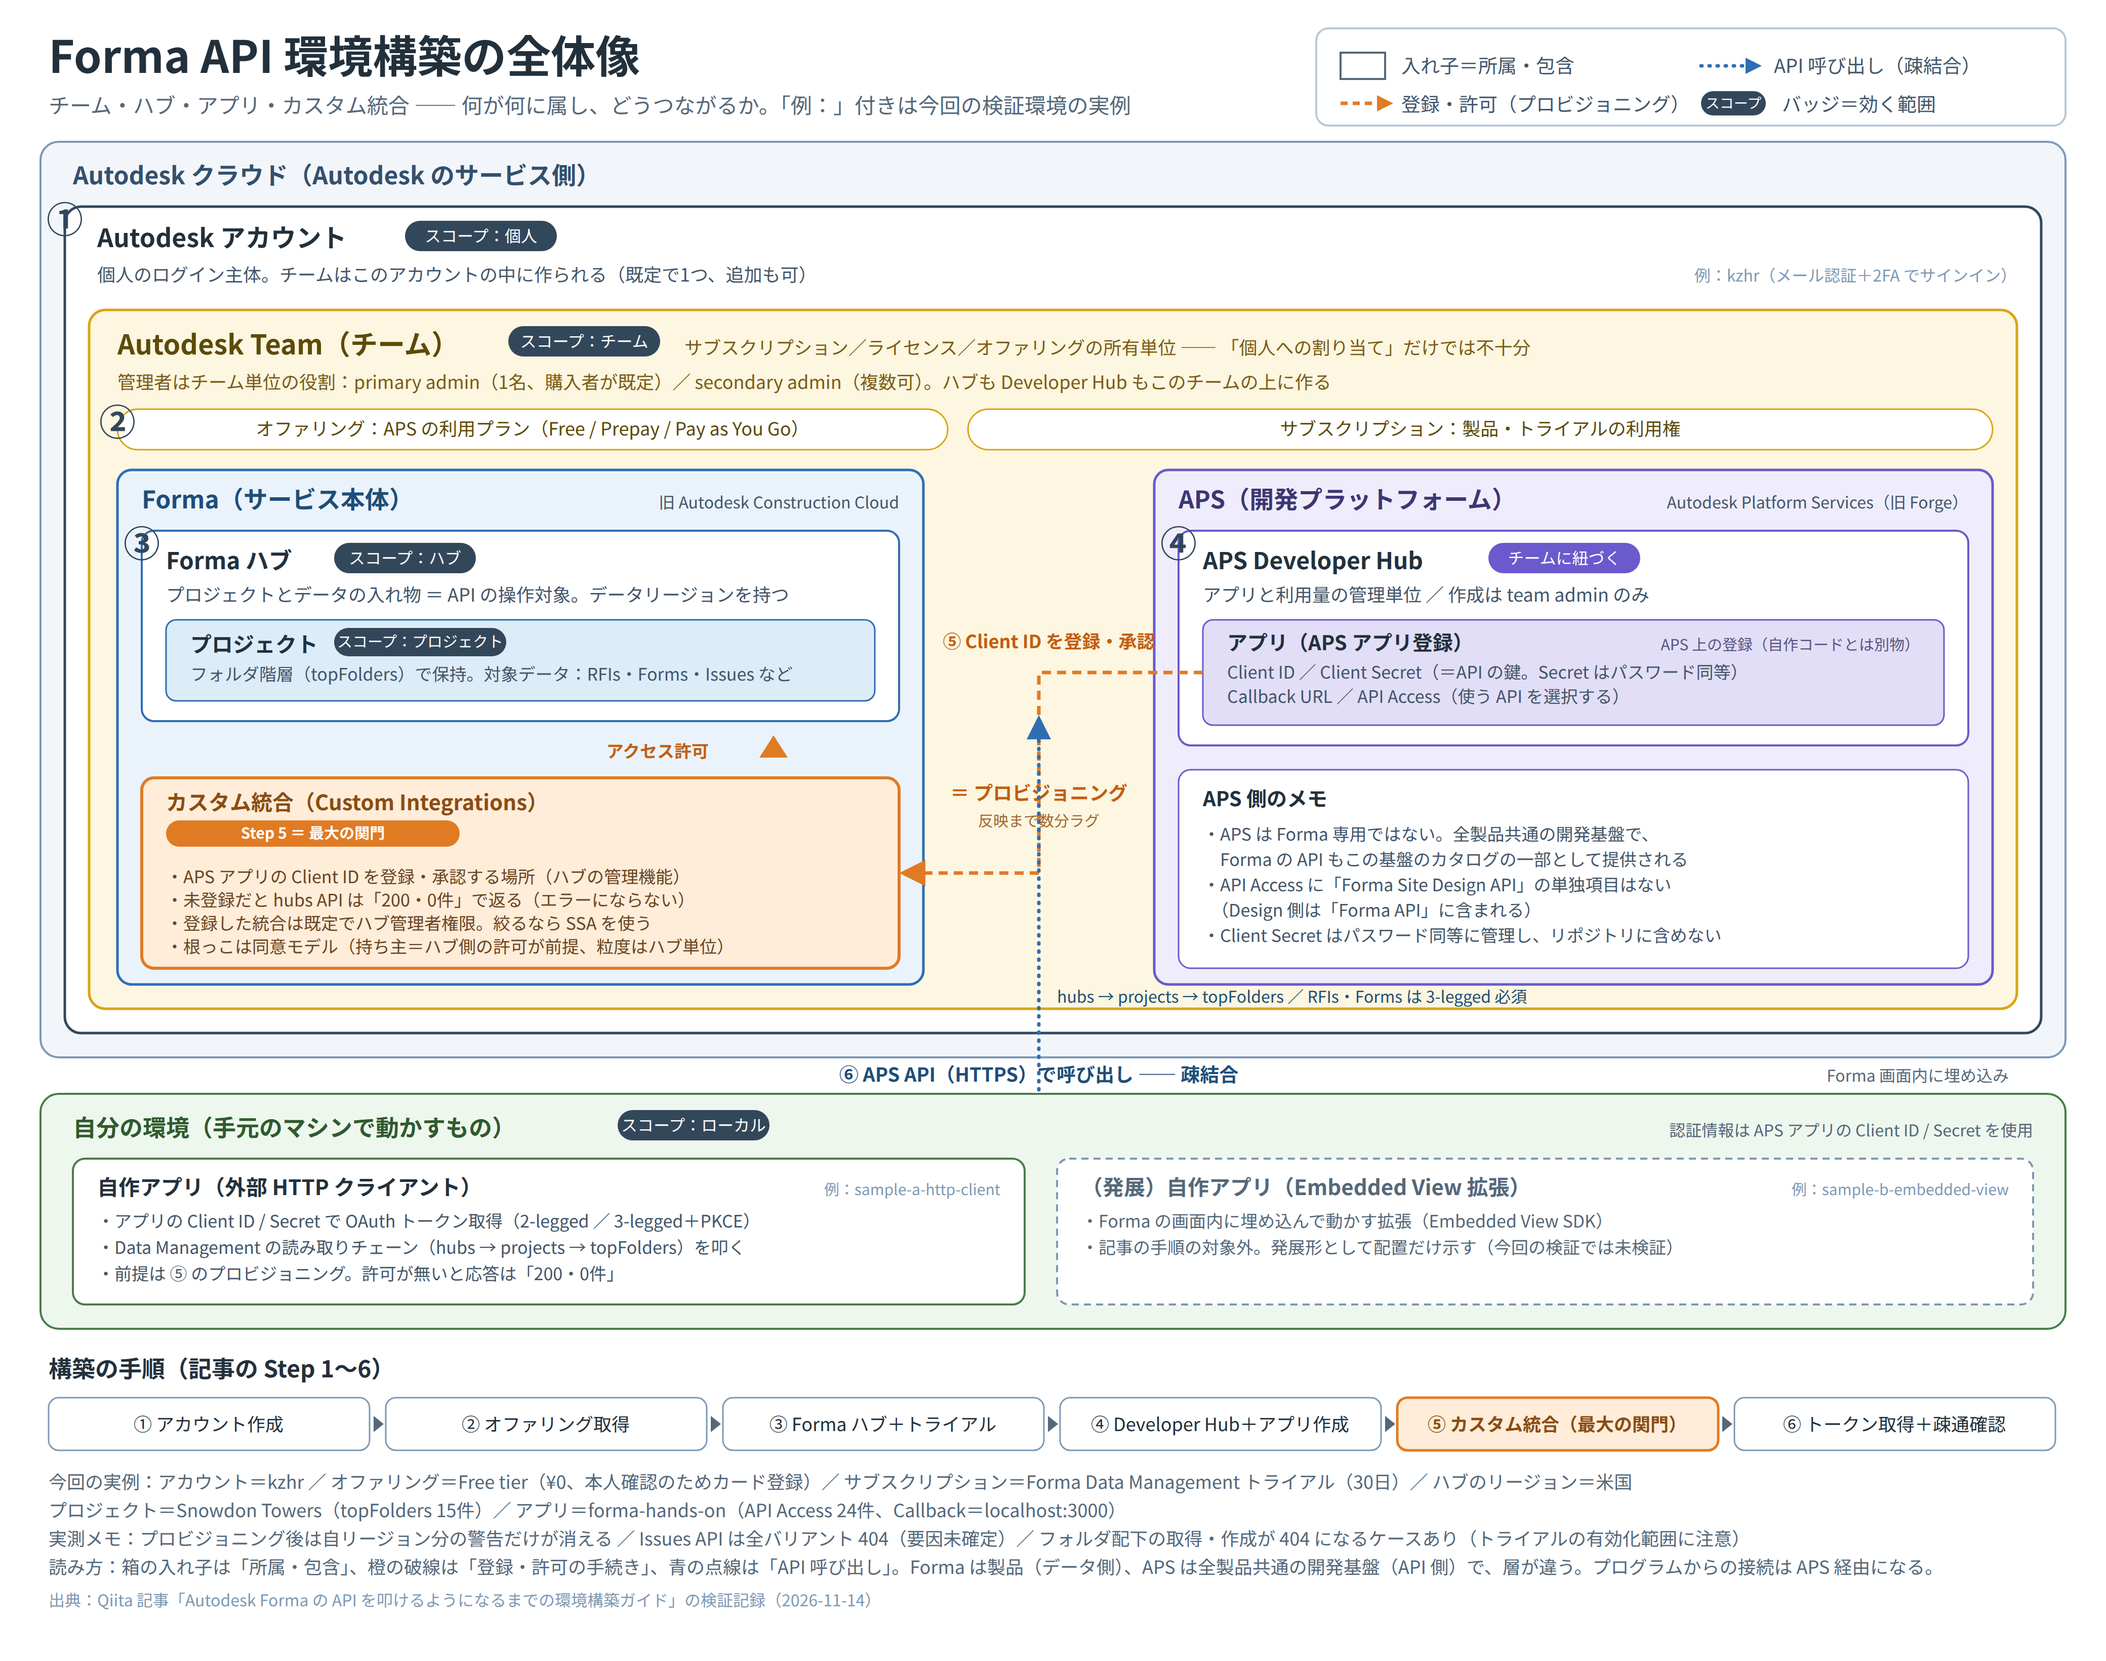
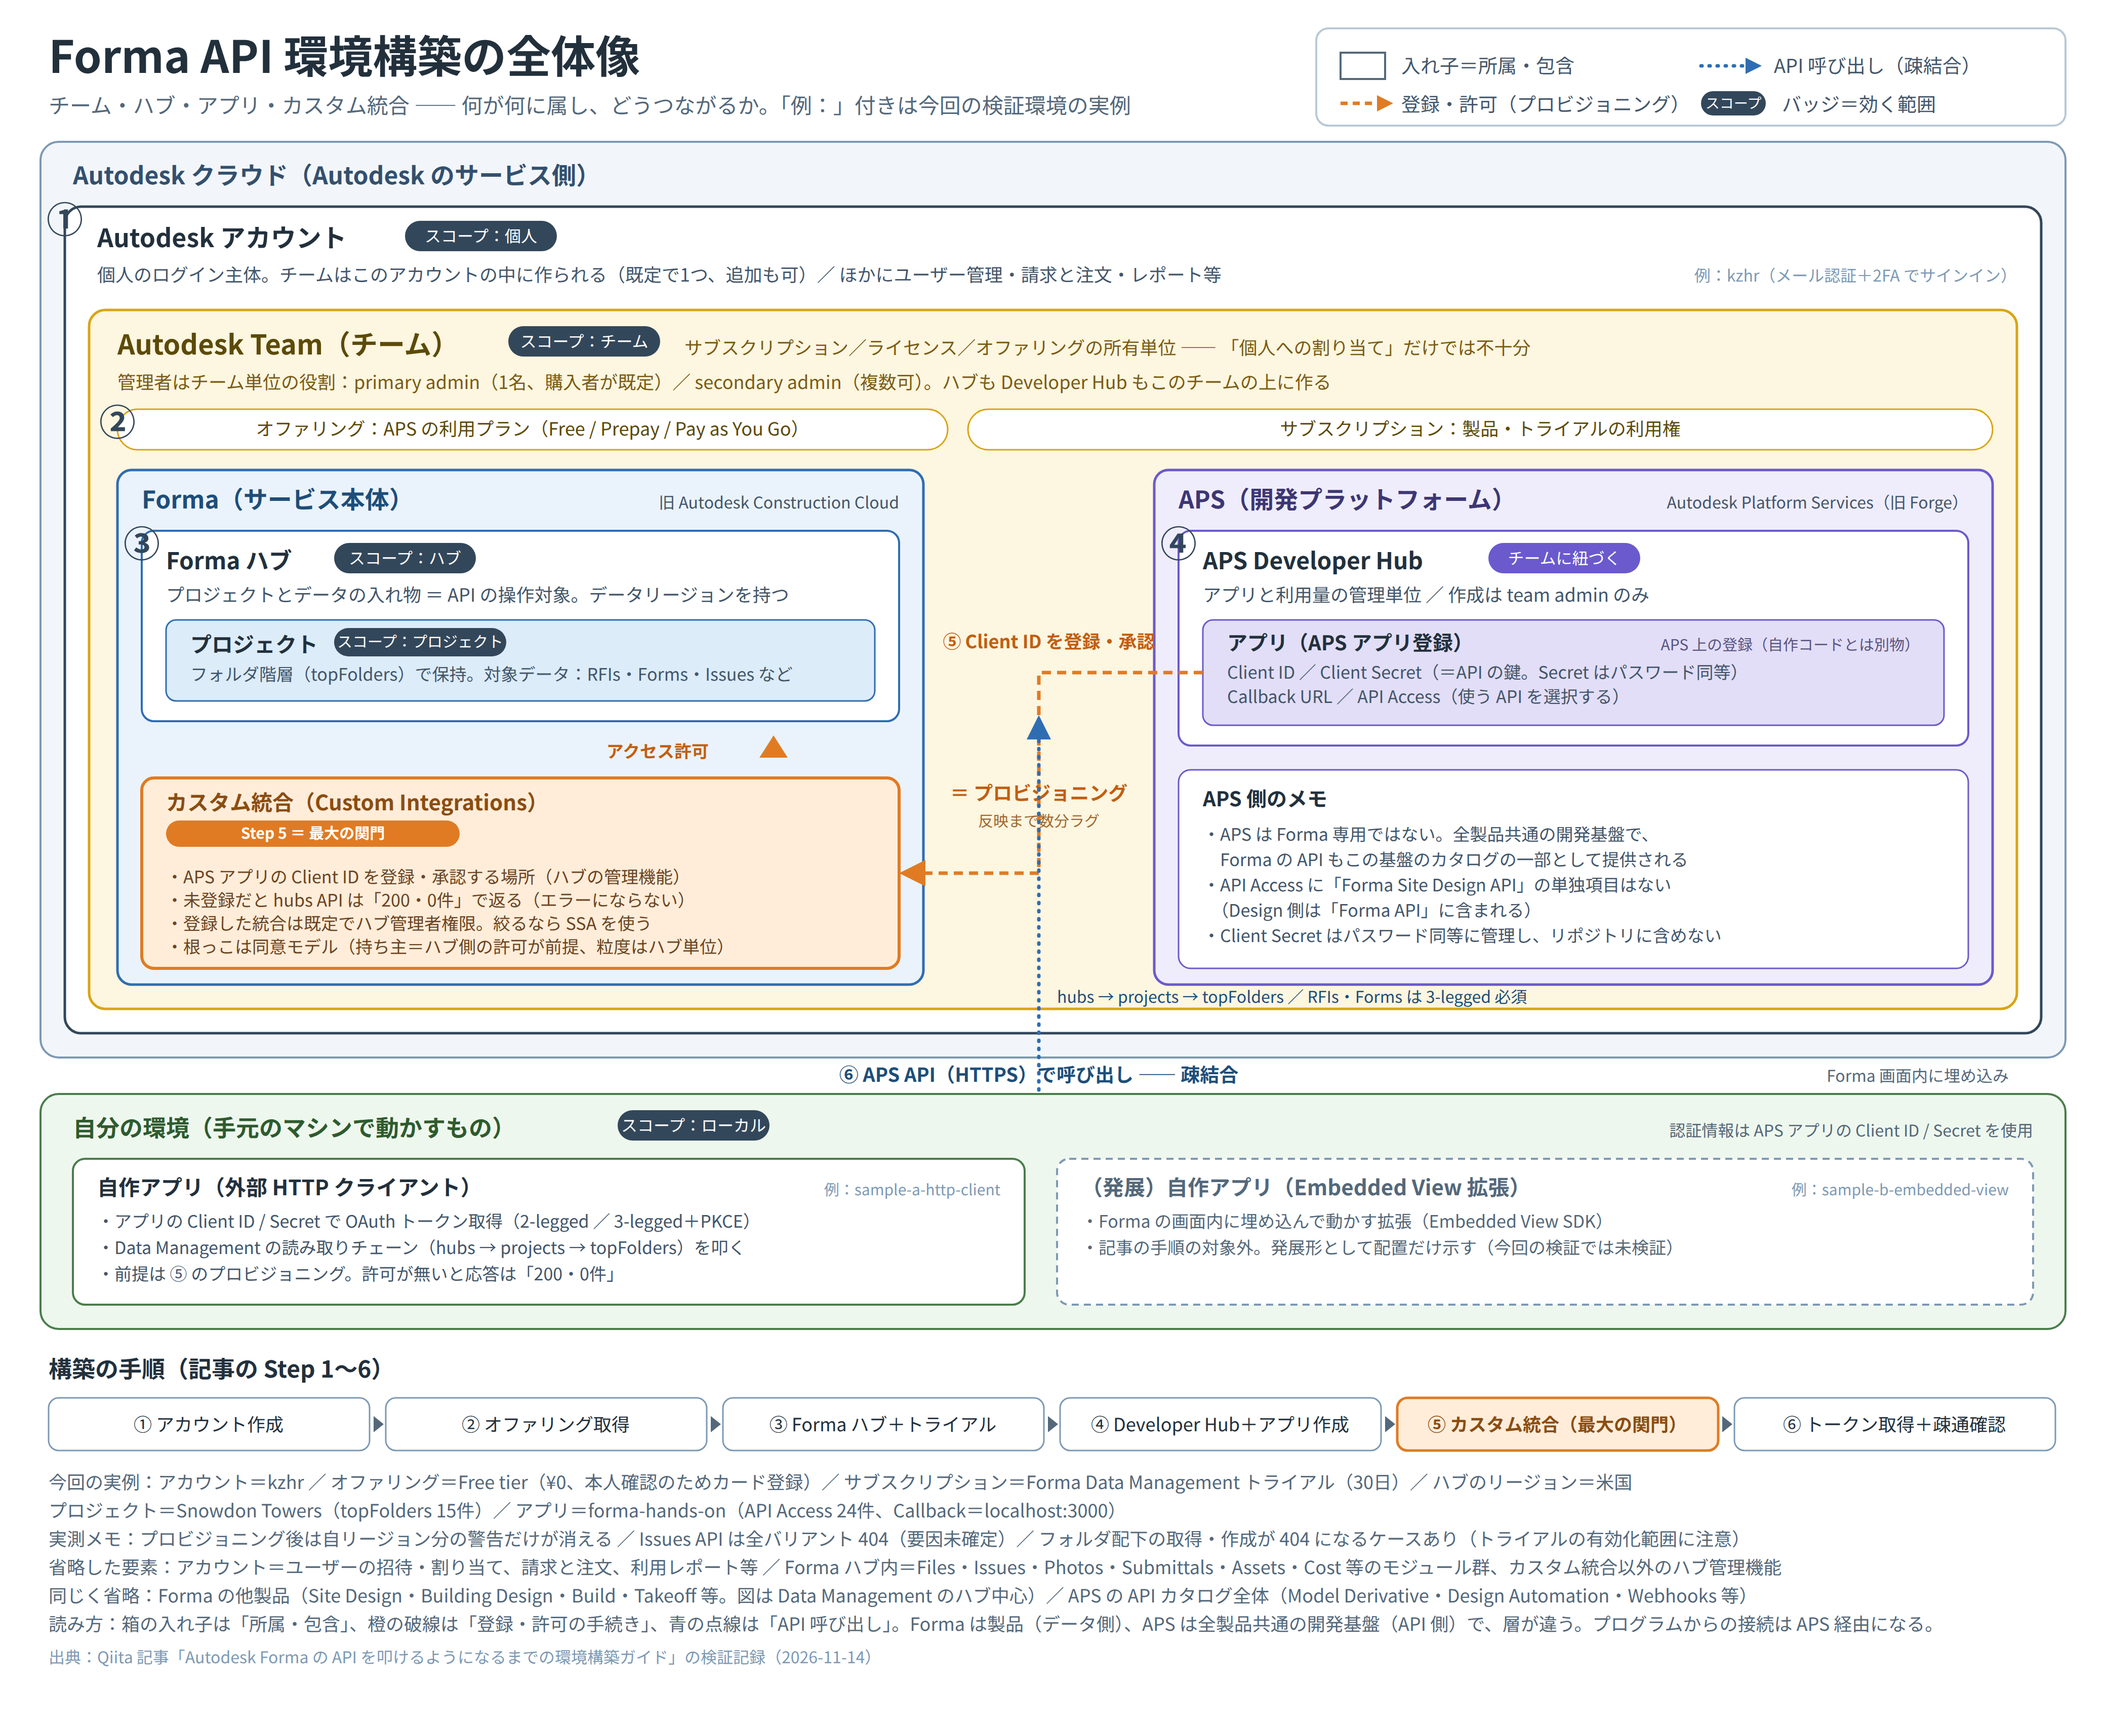
Forma記事: Step 1のつまづき（2FA・hCaptcha）を削除／全体像図解に省略要素の注記を追加

diff --git a/public/forma-api-environment-setup.md b/public/forma-api-environment-setup.md
@@ -80,17 +80,6 @@ Autodesk Forma（旧 Autodesk Construction Cloud / ACC）の API を使って自
 
 ![アカウント作成フォーム](https://raw.githubusercontent.com/tkhashi/qiita/main/assets/forma-api-environment-setup/117_create_account_form.jpg)
 
-### ⚠ つまづきポイント
-
-- **2段階認証のバックアップコードは、その場で必ず控える。** 後から確認する手段がありません。認証アプリ（Google Authenticator 等）の登録とセットで保管してください。
-- 自動化ツールや一部ブラウザ環境では hCaptcha を通過できないことがあります。その場合は手作業で通すしかありません。
-
-その本人確認で表示される hCaptcha のチャレンジ画面がこちらです。
-
-![hCaptcha のチャレンジ画面](https://raw.githubusercontent.com/tkhashi/qiita/main/assets/forma-api-environment-setup/118_hcaptcha_challenge.jpg)
-
-*※メールコード入力画面そのものは撮影できなかったため、掲載していません。*
-
 ## Step 2: APS オファリングの取得（Free tier）
 
 APS（Autodesk Platform Services）の現在のビジネスモデルでは、**チームに APS のオファリング（＝利用プラン。無料の Free tier 含む）を紐づけ、そのチームの中に Developer Hub を作る**ことが必須になっています。[^1]
